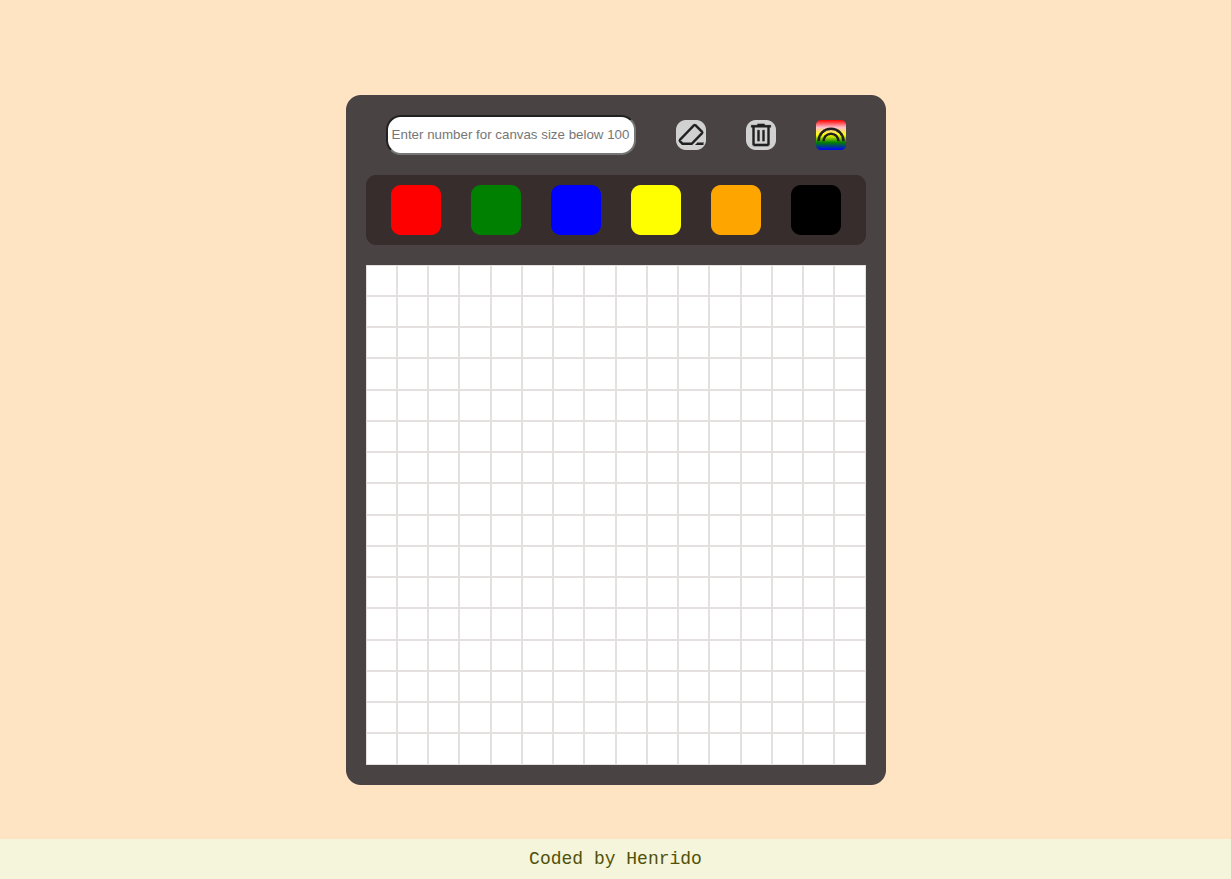
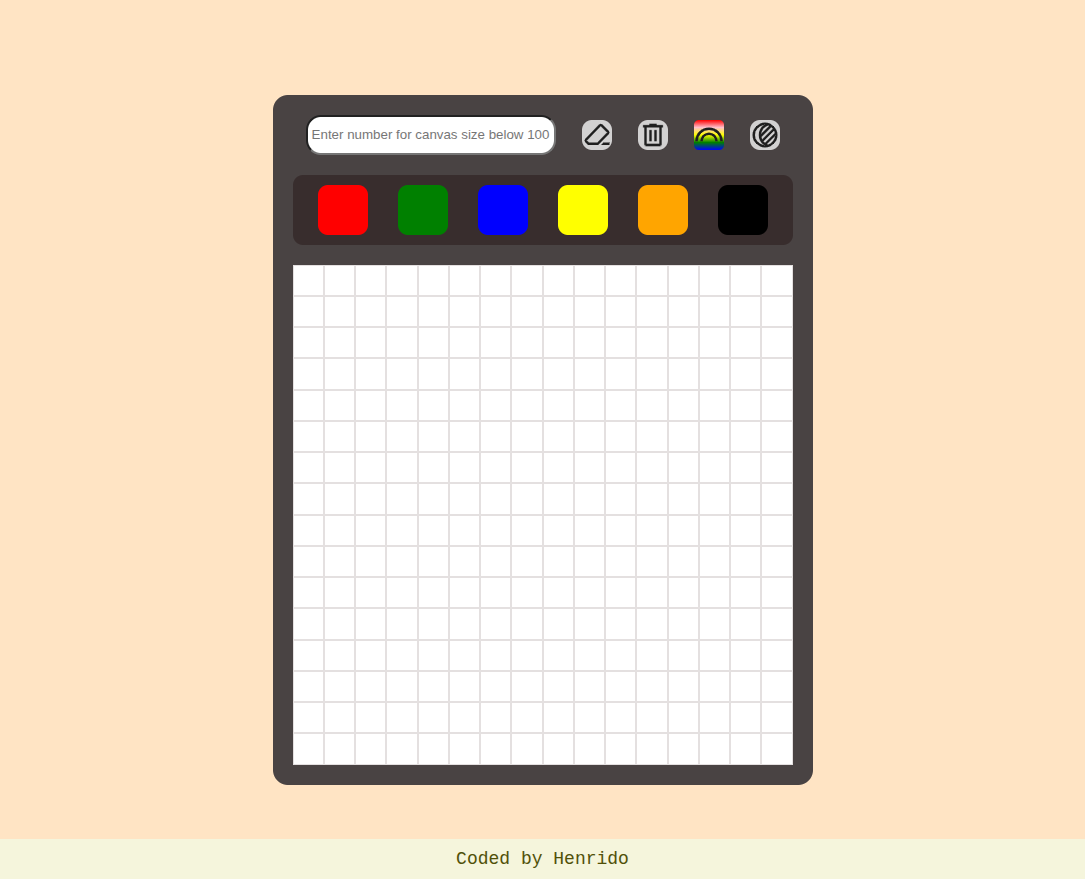
Start adding feature shadow and update readme picture

diff --git a/script.js b/script.js
@@ -76,7 +76,7 @@ function drawOnDivs(e){
         color += returnRandomRgb();
     }
     if(shadowModeOn && e.target.className == "grid-item"){
-        e.target.style.opacity += "0.1";
+        
     }
     e.target.style.backgroundColor = color;
 }
@@ -100,8 +100,6 @@ const trashcan = document.querySelector(".trashcan");
 eraser.addEventListener("click", (e)=>{
     e.preventDefault();
     color = "white";
-    e.target.style.opacity = 1;
-    e.target.style.border = "1px solid rgba(167, 154, 154, 0.308);"
 })
 
 const clearBtn = document.querySelector(".delete");

diff --git a/styles.css b/styles.css
@@ -80,7 +80,7 @@ input:hover{
 }
 
 .red{
-    background-color:red;
+    background-color: red;
 }
 
 .green{
@@ -111,14 +111,14 @@ input:hover{
     margin-bottom:20px;
 }
 
-.eraser, .delete, .rainbow{
+.eraser, .delete, .rainbow, .shadow{
     width: 30px;
     background-color: rgba(255, 255, 255, 0.753);
     border-radius: 10px;
     transition: 0.3s scale, 0.1s box-shadow, 0.1s border;
 }
 
-.eraser:hover, .delete:hover, .rainbow:hover{
+.eraser:hover, .delete:hover, .rainbow:hover ,.shadow:hover{
     scale: 1.2;
     cursor:pointer;
 }

diff --git a/index.html b/index.html
@@ -14,6 +14,7 @@
             <img class="eraser" src="images/ink_eraser_24dp_1F1F1F_FILL0_wght400_GRAD0_opsz24.svg" alt="Eraser">
             <img class="delete" src="images/delete_24dp_1F1F1F_FILL0_wght400_GRAD0_opsz24.png" alt="Erase all">
             <img src="images/looks_24dp_1F1F1F_FILL0_wght400_GRAD0_opsz24.svg" alt="Random color option" class="rainbow">
+            <img src="images/ev_shadow_24dp_1F1F1F_FILL0_wght400_GRAD0_opsz24.svg" alt="Shadow option" class="shadow">
         </div>
 
         <div class="color-picker">
